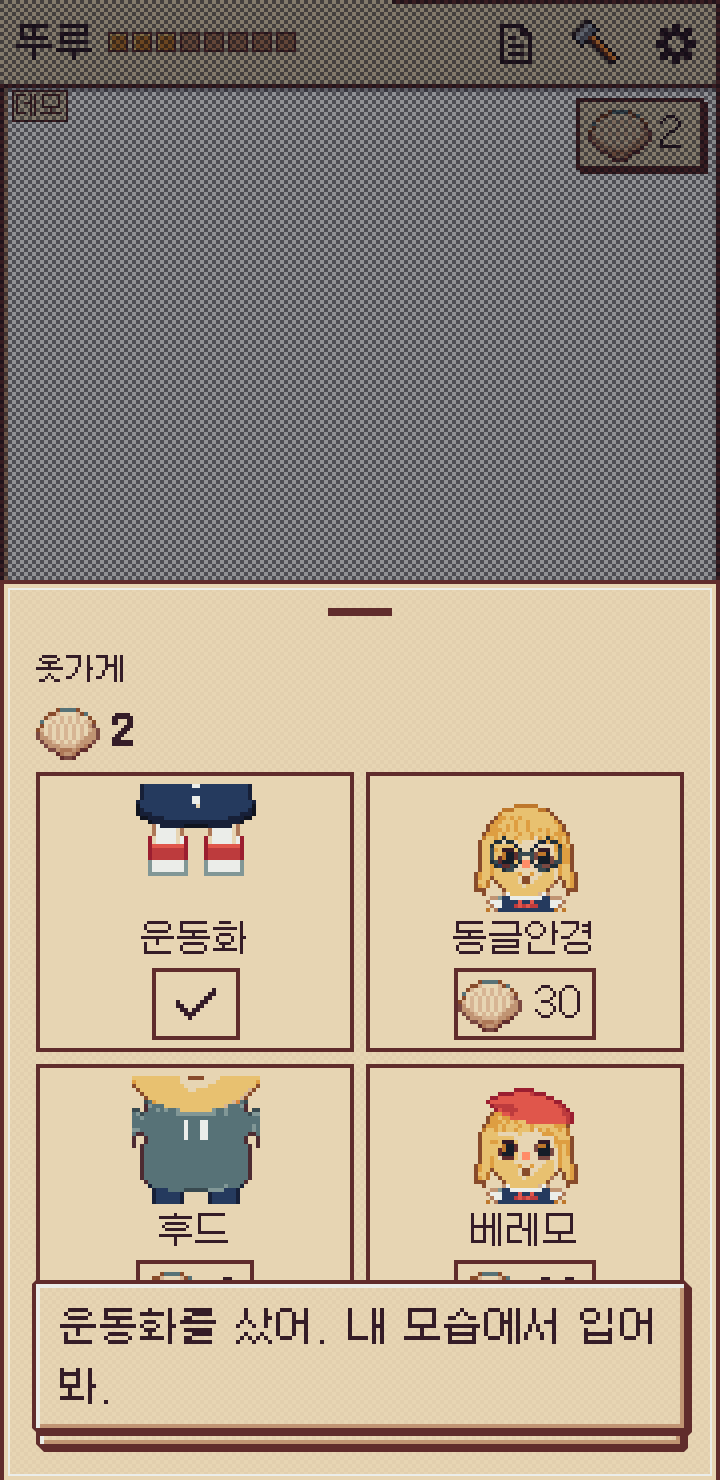
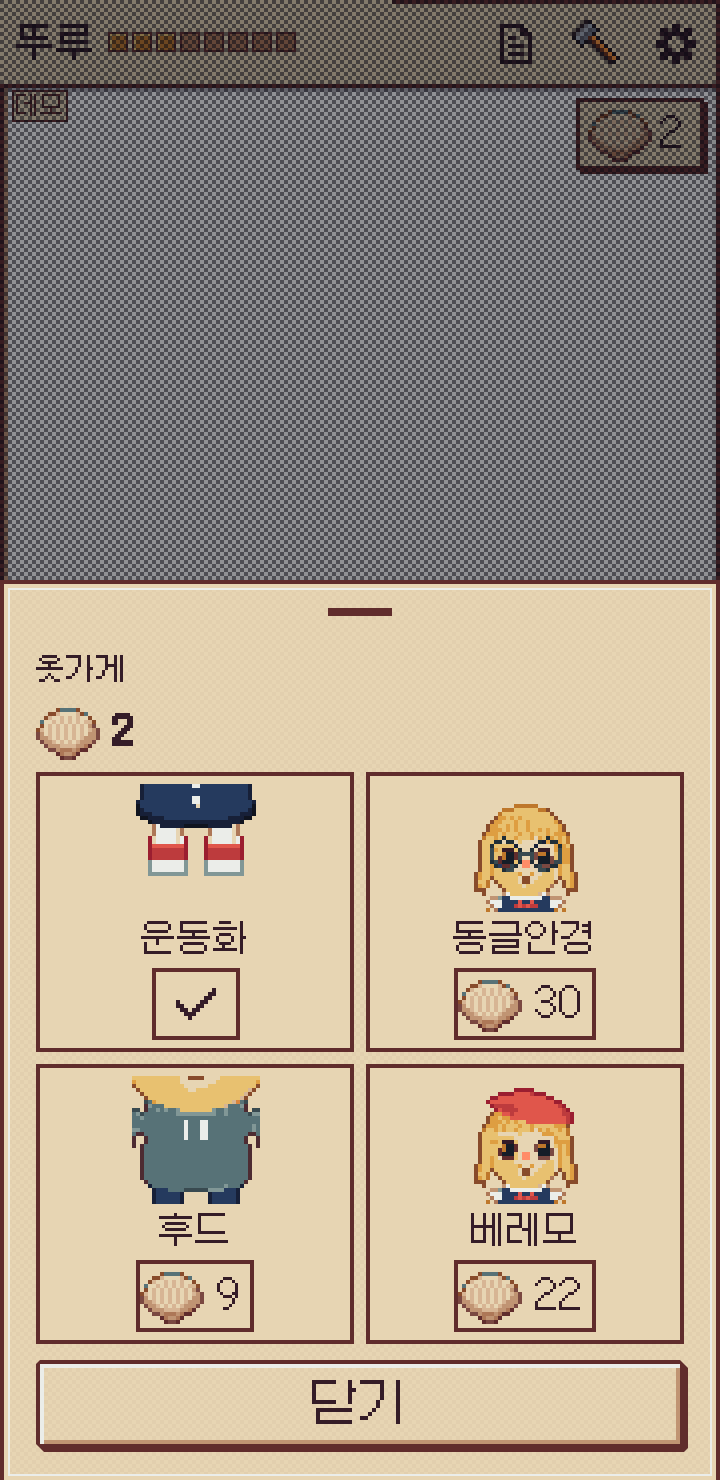
가게: 독립 점검에서 나온 것 고침 (두 번 톡에 시트 닫힘 · 옷장이 안 받을 때 결제 · 불러오기 뒤 다시 얹기 · 2.625 배율 그림)
Claude-Session: https://claude.ai/code/session_01Tq2y4UyHAQAeqPneYKgSFN

Changed region(s): [[0.0306, 0.8392, 0.9778, 0.9946]]

diff --git a/js/app.js b/js/app.js
@@ -5510,8 +5510,8 @@ var APP = (function () {
     var w = shopCat(); return SHOP.stock('clothes', dk, w, shopOwned(u, w));
   }
   function shopMineAdd(m) { m.at = Date.now(); m.born = S.octopus.born || 0; shopMine.push(m); }
-  function shopSync() {   /* 다른 탭의 저장을 받은 뒤 · 시트를 열 때: 내 것 다시 얹기 + 영수증대로 옷장 고치기 */
-    if (!window.SHOP) return; var u = shopU(), now = Date.now(), born = S.octopus.born || 0, dk = todayKey(), mine = { shop: { got: {} }, beach: { day: dk, picked: [] } };
+  function shopSync(remote) {   /* remote = 다른 탭의 저장을 받은 뒤: 내 것 다시 얹기 (불러오기 · 초기화 뒤에는 얹지 않는다 — 시트를 열 때는 영수증대로 옷장 고치기만) */
+    if (!window.SHOP) return; if (!remote) shopMine = []; var u = shopU(), now = Date.now(), born = S.octopus.born || 0, dk = todayKey(), mine = { shop: { got: {} }, beach: { day: dk, picked: [] } };
     shopMine = shopMine.filter(function (m) { return now - m.at < 60000 && m.born === born; });
     shopMine.forEach(function (m) {
       if (m.t === 'got') mine.shop.got[m.key] = m.day;
@@ -5530,23 +5530,24 @@ var APP = (function () {
   function shopShort(miss, el) {   /* 재봉틀과 같은 모자람 알림: 값 그림이 흔들리고 모자란 수 */
     furnShake(el); toast([h('span', { 'aria-hidden': 'true' }, [shellAmt(miss), ' 모자라']), h('span', { class: 'sr-only', text: '조개가 ' + miss + '개 모자라. 다락방 달리기나 들어온 날 선물로 생겨' })]);
   }
+  function shopSnap(el, art, want) { var dpr = window.devicePixelRatio || 1, k = Math.max(1, Math.floor(want * dpr / art + 1e-6)); el.style.width = (art * k / dpr) + 'px'; el.style.height = ((el.height || art) * k / dpr) + 'px'; return el; }   /* 그림 한 점 = 기기 px 의 정수배 (2.625 배율에서 64px 는 5.25 배라 번진다 → 5 배) */
   function shopThumb(it, px) {   /* 옷 그림: 캐릭터 갈래의 itemThumb (캔버스 | 그림 주소) → 없으면 그 옷만 바꿔 입은 내 얼굴 샷 → 그것도 없으면 그림 없이 */
     var A = window.APP, t = null, box = h('span', { class: 'shop-pic', 'aria-hidden': 'true' });
     try { t = A && typeof A.itemThumb === 'function' ? A.itemThumb(it.cat, it.id, px) : null; } catch (e) { console.warn('[app] itemThumb', e); }
     if (typeof t === 'string' && t) t = h('img', { src: t, alt: '', width: String(px), height: String(px), draggable: 'false' });
     else if (!(t && t.nodeType === 1) && lookCanShot()) { try { var look = {}; look[it.cat] = it.id; var src = scene.playerShot({ look: look, frame: it.cat === 'shoes' ? 'feet' : /^(hair|acc|eyes|face)/.test(it.cat) ? 'head' : 'body', shared: true }); if (src) { t = h('canvas', { width: String(src.width), height: String(src.height) }); t.getContext('2d').drawImage(src, 0, 0); } } catch (e2) { console.warn('[app] playerShot', e2); t = null; } }
-    if (t && t.nodeType === 1) { t.classList.add('shop-thumb'); box.appendChild(t); }
+    if (t && t.nodeType === 1) { t.classList.add('shop-thumb'); if (t.width > 0 && t.width === t.height) shopSnap(t, 32, px); box.appendChild(t); }
     return box;
   }
   var SHOP_SEED = ['................', '...oooooooooo...', '...occcccccco...', '...oooooooooo...', '...occcccccco...', '...ocggccggco...', '...occggggcco...', '...occcggccco...', '...occcggccco...', '...occbbbbcco...', '...occcccccco...', '...oooooooooo...', '................', '.....b....b.....', '........b.......', '................'];
   function shopSeedPic() {   /* 씨앗 봉투 (16×16 을 조개 그림처럼 32px 로 — 그림 파일을 새로 두지 않고 여기서 찍는다) */
     var cv = h('canvas', { class: 'shop-seed', width: '16', height: '16' }), cx = cv.getContext('2d'), col = { o: '#5a3422', c: '#f3e3c0', g: '#4fa868', b: '#7a4a30' };
     SHOP_SEED.forEach(function (row, y) { for (var x = 0; x < 16; x++) if (col[row[x]]) { cx.fillStyle = col[row[x]]; cx.fillRect(x, y, 1, 1); } });
-    return cv;
+    return shopSnap(cv, 16, 48);
   }
   function shopTry(it) {   /* 입어 보기: 지금 내 모습에서 그 옷 하나만 바꾼 전신 (장면이 그린다 — 저장도 실제 모습도 안 바뀐다) */
     if (!lookCanShot()) return null;
-    try { var look = {}; look[it.cat] = it.id; var src = scene.playerShot({ look: look, frame: 'full', shared: true }); if (!src) return null; var cv = h('canvas', { class: 'look-stage-cv shop-try', width: String(src.width), height: String(src.height), role: 'img', 'aria-label': it.name + ' 입어 본 내 모습' }); cv.getContext('2d').drawImage(src, 0, 0); return cv; }
+    try { var look = {}; look[it.cat] = it.id; var src = scene.playerShot({ look: look, frame: 'full', shared: true }); if (!src) return null; var cv = h('canvas', { class: 'look-stage-cv shop-try', width: String(src.width), height: String(src.height), role: 'img', 'aria-label': it.name + ' 입어 본 내 모습' }); cv.getContext('2d').drawImage(src, 0, 0); return shopSnap(cv, src.width, 128); }
     catch (e) { console.warn('[app] playerShot', e); return null; }
   }
   function shopFind(kind, key) { var f = null; shopStock(kind).items.forEach(function (x) { if (x.key === key) f = x; }); return f; }
@@ -5561,7 +5562,7 @@ var APP = (function () {
     if (!r.ok && r.why === 'short') { shopShort(it.price - u.shells, document.querySelector('#shop-body .shop-ask .shell-amt')); return; }   /* 묻는 줄은 그대로 둔다 */
     shopAsk = null;
     if (!r.ok) { renderShop(); return; }
-    if (r.own) { var A = shopApi(); try { if (!A) throw new Error('옷장 없음'); A.ownItem(it.cat, it.id); } catch (e) { console.warn('[app] ownItem', e); renderShop(); return; } u = shopU(); }   /* 옷장에 못 넣으면 조개도 안 나간다 */
+    if (r.own) { var A = shopApi(); try { if (!A) throw new Error('옷장 없음'); if (A.ownItem(it.cat, it.id) === false) throw new Error('옷장이 받지 않음'); } catch (e) { console.warn('[app] ownItem', e); renderShop(); return; } u = shopU(); }   /* 옷장에 못 넣으면 조개도 안 나간다 */
     u.shells = r.state.shells; u.seeds = r.state.seeds; u.dyes = r.state.dyes; u.shop = r.state.shop;
     shopMineAdd(r.own ? { t: 'got', key: r.own, day: dk } : it.type === 'seed' ? { t: 'seed', day: dk, n: u.shop.day ? u.shop.day.seeds : 1 } : { t: 'dye' });
     save(); renderShop(); renderBagChip(); shopSay('shop.thanks');
@@ -5582,6 +5583,7 @@ var APP = (function () {
     frag.appendChild(h('p', { class: 'bag-line' }, [shellAmt(u.shells), goods ? h('span', { text: ' · 씨앗 ' + u.seeds }) : null]));
     var ask = shopAsk && shopAsk.kind === shopKind ? shopAsk : (shopAsk = null), it = ask ? shopFind(shopKind, ask.key) : null;
     if (ask && !it) ask = shopAsk = null;
+    if (!ask) body.style.minHeight = ''; else if (!body.style.minHeight && body.querySelector('.shop-grid')) body.style.minHeight = body.offsetHeight + 'px';   /* 묻는 동안 시트가 줄지 않게 (선반 높이 그대로) */
     if (ask) {   /* 확인 줄 — 선반 자리에 (묻는 동안 선반은 없다: 두 번 톡이 '살래' 로 들어가지 않게) */
       var wear = ask.act === 'wear', cv = goods ? null : shopTry(it), line, sw = null;
       if (wear) line = [h('span', { text: it.name + eulReul(it.name) + ' 입을까?' })];
@@ -5646,12 +5648,12 @@ var APP = (function () {
   function shopInit() {
     var sh = $('shop-sheet'); if (!sh) return;
     $('shop-close').addEventListener('click', function () { sh.close(); });
-    sh.addEventListener('click', function (e) { if (clickedOutside(e.currentTarget, e)) e.currentTarget.close(); });
+    sh.addEventListener('click', function (e) { if (clickedOutside(e.currentTarget, e) && !(shopAsk && tapTime(e) - shopAskAt < SHEET_SETTLE)) e.currentTarget.close(); });   /* 칸을 두 번 톡했을 때 둘째가 (줄어든 시트의) 바깥에 떨어져 닫히지 않게 */
     sh.addEventListener('close', function () { shopAsk = null; });
     [['btn-shop-clothes', 'clothes'], ['btn-shop-goods', 'goods']].forEach(function (p) { var b = $(p[0]); if (b) b.addEventListener('click', function () { openShop(p[1]); }); });
     for (var i = 0; i < 5; i++) (function (n) { var b = $('btn-beach-shell-' + n); if (b) b.addEventListener('click', function () { beachTap(n); }); })(i);
     shopDay = todayKey();
-    window.addEventListener('storage', function (e) { if (e.key !== KEY) return; setTimeout(shopSync, 0); setTimeout(shopSync, 800); });   /* 앱이 다른 탭의 저장을 받아들인 뒤에 */
+    window.addEventListener('storage', function (e) { if (e.key !== KEY) return; setTimeout(function () { shopSync(true); }, 0); setTimeout(function () { shopSync(true); }, 800); });   /* 앱이 다른 탭의 저장을 받아들인 뒤에 */
     setInterval(function () { if (!document.hidden) shopTick(); }, 30000);
     document.addEventListener('visibilitychange', function () { if (!document.hidden) setTimeout(shopTick, 500); });
     beachSync(true); setTimeout(function () { beachSync(true); }, 1500); setTimeout(function () { beachSync(true); }, 5000);   /* 바깥이 늦게 지어져도 */

diff --git a/tools/test-shop-live.js b/tools/test-shop-live.js
@@ -57,6 +57,12 @@ async function goodsRun(browser) {
   await tile(page, dye);
   ok(!(await page.$('#shop-body .shop-ask')) && (await U(page)).shells === 0 && /모자라/.test(await page.textContent('#toast')), '조개가 없으면 묻지 않고 모자란 수만');
   await setShells(page, 20);
+  /* 윗줄 칸을 두 번 톡: 둘째가 줄어든 시트의 바깥에 떨어져 닫히면 안 된다 */
+  const sb = await page.evaluate(() => { const r = document.querySelector('#shop-body .shop-tile').getBoundingClientRect(); return { x: r.left + r.width / 2, y: r.top + 20 }; });
+  await page.mouse.click(sb.x, sb.y); await page.mouse.click(sb.x, sb.y);
+  ok(await page.evaluate(() => document.getElementById('shop-sheet').open) && !!(await page.$('#shop-body .shop-ask')) && (await U(page)).shells === 20, '칸을 두 번 톡해도 시트가 닫히지 않는다');
+  ok(await page.evaluate(p => { const r = document.getElementById('shop-sheet').getBoundingClientRect(); return p.y >= r.top; }, sb), '묻는 동안 시트 높이가 줄지 않는다');
+  await page.waitForTimeout(700); await page.click('#shop-body .sew-no');
   await shot(page, 'goods-360');
   await dbl(page, 'seed');
   ok(!!(await page.$('#shop-body .shop-ask')) && !(await page.$('#shop-body .shop-grid')) && (await U(page)).shells === 20, '누르면 먼저 묻는다 (아직 안 나간다)');
@@ -108,6 +114,13 @@ async function clothesRun(browser) {
   let u = await U(page);
   ok(u.shells === 3 && !(u.owned || {})[dear.key] && !u.shop.got[dear.key] && !!(await page.$('#shop-body .shop-ask')) && /모자라/.test(await page.textContent('#toast')), '모자라면 안 사진다 (물음은 그대로)');
   await page.click('#shop-body .sew-no');
+  /* 옷장이 받지 않으면 (false) 조개도 안 나간다 */
+  await page.evaluate(() => { window.__own = APP.ownItem; APP.ownItem = () => false; });
+  await setShells(page, cheap.price + 2);
+  await tile(page, cheap.key); await yes(page);
+  u = await U(page);
+  ok(u.shells === cheap.price + 2 && !u.shop.got[cheap.key] && !(u.owned || {})[cheap.key], '옷장이 받지 않으면 조개도 안 나간다');
+  await page.evaluate(() => { APP.ownItem = window.__own; });
   await setShells(page, cheap.price + 2);
   await dbl(page, cheap.key);
   ok((await U(page)).shells === cheap.price + 2, '0.6 s 안의 살래는 안 받는다');
@@ -122,7 +135,7 @@ async function clothesRun(browser) {
   ok((await page.textContent('#shop-body .sew-yes')) === '입을래', '가진 옷은 입을지 묻는다');
   await yes(page);
   ok(await page.evaluate(k => { const p = k.split(':'); return APP.state.settings.player[p[0]] === p[1]; }, cheap.key) && (await U(page)).shells === 2, '입을래 → 입는다 (조개는 그대로)');
-  ok(await page.evaluate(() => window.__said.join()) === 'clothes|shop.hello,clothes|shop.hello,clothes|shop.thanks', '가게 주인 줄: 열 때 인사 · 산 뒤 한 번 (입기 · 모자람 · 그만에는 없다)');
+  ok(await page.evaluate(() => window.__said.join()) === 'clothes|shop.hello,clothes|shop.hello,clothes|shop.hello,clothes|shop.thanks', '가게 주인 줄: 열 때 인사 · 산 뒤 한 번 (입기 · 모자람 · 그만에는 없다)');
   await page.click('#shop-close');
   /* 새로고침 → 대역을 다시 끼워도 산 것은 그대로 */
   await page.reload(); await page.waitForFunction(() => window.APP && APP.openShop, null, { timeout: 30000 }); await page.waitForTimeout(800);
@@ -177,6 +190,12 @@ async function tabsRun(browser) {
   const saved = JSON.parse(await A.evaluate(() => localStorage.getItem('ppolppol_v2')));
   ok(saved.user.shop.got[it.key] === DAY && saved.user.owned[it.key] === DAY, '저장에도 다시 적힌다');
   ok(await A.evaluate(k => !!document.querySelector('#shop-body .shop-tile[data-key="' + k + '"] .sew-cost.own'), it.key), '열린 선반의 표시도 그대로');
+  /* 불러오기 (같은 탭) 뒤에 가게를 열어도 방금 산 것을 다시 얹지 않는다 */
+  await A.evaluate(raw => { const o = JSON.parse(raw); o.user.seeds = 3; APP.importJSON(JSON.stringify(o)); }, stale);
+  await A.evaluate(() => APP.openShop('clothes'));
+  const im = await U(A);
+  ok(im.seeds === 3 && !(im.owned || {})[it.key] && !((im.shop || {}).got || {})[it.key], '불러온 기록에는 얹지 않는다');
+  await A.evaluate(() => document.getElementById('shop-sheet').close());
   /* 다른 문어의 기록 (초기화 뒤 새로 시작한 탭) 이면 얹지 않는다 */
   await A.evaluate(raw => { const o = JSON.parse(raw); o.octopus.born = '2026-11-20T00:00:00.000Z'; delete o.user.owned; delete o.user.shop; const v = JSON.stringify(o); localStorage.setItem('ppolppol_v2', v); window.dispatchEvent(new StorageEvent('storage', { key: 'ppolppol_v2', newValue: v, storageArea: localStorage })); }, stale);
   await A.waitForTimeout(1300);

diff --git a/css/style.css b/css/style.css
@@ -1794,7 +1794,7 @@ html.intro-on .meal-call { opacity: 0; visibility: hidden; }
 
 
 /* [7-S] 가게 (옷가게 · 잡화점 · 바닷가 조개) */
-/* 11-21: 재봉틀 시트의 칸 · 확인 줄 · 값 표를 그대로 쓰고 (sew-*), 선반만 두 칸씩 · 칸마다 그림 64px (옷 그림은 기기 px 에 맞춘 정수배 — pixelated) */
+/* 11-21: 재봉틀 시트의 칸 · 확인 줄 · 값 표를 그대로 쓰고 (sew-*), 선반만 두 칸씩 · 칸마다 그림 자리 64px (그림 크기는 앱이 기기 px 의 정수배로 맞춘다 — shopSnap) */
 .shop-sheet .shop-grid { grid-template-columns: repeat(2, minmax(0, 1fr)); }
 .shop-sheet .shop-tile { align-items: center; gap: 4px; padding: 6px 4px; }
 .shop-pic { display: flex; align-items: center; justify-content: center; width: 64px; height: 64px; }
@@ -1805,7 +1805,8 @@ html.intro-on .meal-call { opacity: 0; visibility: hidden; }
 .shop-sheet .shop-tile .sew-name { word-break: keep-all; overflow-wrap: anywhere; }
 .shop-sheet .shop-tile .sew-cost { align-self: center; justify-content: center; min-width: 44px; }
 .shop-ask { display: flex; flex-direction: column; align-items: stretch; }
-.shop-ask .shop-try { align-self: center; margin: 0 0 8px; }
+.shop-ask .shop-try { align-self: center; margin: 0 0 8px; box-sizing: content-box; }
+.shop-ask { justify-content: center; }
 :root[data-font="pixel"] .shop-ask .shop-try { border: 0; border-radius: 0; box-shadow: inset 0 0 0 2px var(--line); }
 
 

diff --git a/tools/test-shop.js b/tools/test-shop.js
@@ -88,6 +88,7 @@ console.log('== 사기');
   var r2 = SHOP.buy(r.state, 'clothes', it, DAY);
   ok(!r2.ok && r2.why === 'owned' && r2.state.shells === 5, '두 번 사도 한 번만 나간다');
   ok(SHOP.buy({ shells: 99, owned: (function () { var o = {}; o[it.key] = DAY; return o; })() }, 'clothes', it, DAY).why === 'owned', '옷장에 있으면 안 산다');
+  ok(SHOP.buy({ shells: 99, owned: {}, shop: { got: (function () { var o = {}; o[it.key] = true; return o; })() } }, 'clothes', it, DAY).ok, '영수증만 있고 옷장에 없으면 다시 살 수 있다 (막힌 칸이 안 생긴다)');
   var r3 = SHOP.buy({ shells: it.price - 1 }, 'clothes', it, DAY);
   ok(!r3.ok && r3.why === 'short' && r3.state.shells === it.price - 1, '모자라면 안 산다');
   ok(SHOP.buy({ shells: 99 }, 'clothes', { key: 'a:b', price: 0 }, DAY).why === 'bad', '값 0 은 안 받는다');

diff --git a/js/shop.js b/js/shop.js
@@ -85,7 +85,7 @@ var SHOP = (function () {
     var price = isObj(item) && typeof item.price === 'number' && isFinite(item.price) ? Math.floor(item.price) : 0;
     if (!isObj(item) || typeof item.key !== 'string' || price < 1 || !isKey(dateKey)) return no('bad');
     if (kind === 'clothes') {
-      if (st.shop.got[item.key] || (isObj(state.owned) && state.owned[item.key])) return no('owned');
+      if (isObj(state.owned) ? state.owned[item.key] : st.shop.got[item.key]) return no('owned');   /* 가졌는지는 옷장 (owned) 이 정한다. 옷장을 안 넘겼을 때만 영수증으로 */
       if (st.shells < price) return no('short');
       st.shells -= price; st.shop.got[item.key] = dateKey;
       return { ok: true, state: st, why: null, own: item.key };

diff --git a/wip/round7/reports/S.md b/wip/round7/reports/S.md
@@ -3,7 +3,8 @@
 ## 결론
 
 다 됐다. 옷가게 (하루 네 개 · 입어 보기 · 확인 한 번) 와 잡화점 (씨앗 · 그날의 염료 색 셋), 바닷가 조개 줍기가 `APP.openShop(kind)` · `APP.beachPick(i)` 로 돌고, 마을 단추 · 조개 단추가 합쳐지면 저절로 묶인다.
-기존 줄은 **하나도 고치지 않았다** (표시 줄 아래에만 썼다). `npm test` 통과, 새 시험 둘 (90 · 63) 통과. 버린 것 없음.
+기존 줄은 **하나도 고치지 않았다** (표시 줄 아래에만 썼다). `npm test` 통과, 새 시험 둘 (91 · 65) 통과. 버린 것 없음.
+못 한 것 하나: 리드가 부탁한 `.github/workflows/test.yml` 의 lane 제외 한 줄은 이 세션의 권한 검사에서 막혀 넣지 못했다 (리드에게 알림).
 
 ## 바뀐 것
 
@@ -42,9 +43,9 @@
 2. 가진 옷 칸을 누르면 입어 본 그림 + `입을래` (바로 입는다).
 3. 잡화점: 씨앗 2 조개 · 하루 3개, 염료는 그날 색 셋 · 6 조개 · 수 제한 없음 (재봉틀에서는 여전히 여섯 색을 다 살 수 있다 — 가게는 들르는 김에 사는 곳).
 4. 다 산 씨앗 칸의 글은 `내일` (텃밭의 '내일' 과 같은 말. 시계 · 남은 수는 없다).
-5. 가게 주인의 `shop.thanks` 줄은 **시트가 닫힌 뒤** 부른다 (시트 위에서는 대화 상자가 가려진다). `shop.hello` · `shop.none` 은 부르지 않는다.
+5. 가게 주인 줄 (리드 답): 시트가 열린 채로 `shop.hello` (열 때마다) · `shop.thanks` (산 직후마다) · `shop.none` (빈 선반). 열 때마다 인사가 번거로우면 하루 한 번으로 줄일 자리는 `openShop` 마지막 줄.
 6. 옷장 API 가 없으면 (캐릭터 갈래가 안 합쳐졌으면) 옷가게 시트는 열리지 않는다. 옷 목록은 있는데 살 것이 없으면 '옷은 아직 없어.' 한 줄.
-7. 바닷가 조개는 하루 셋 (+3). 줍기는 범용 벌이 도우미가 없어 (`earnFromPlay` 는 한 판 2~8) 재봉틀 사기와 같은 식으로 `userState()` 의 수를 바꾸고 `save()` · `renderBagChip()` 한다.
+7. 바닷가 조개는 하루 셋 (+3). 멀리서 누르면 먼저 걸어간다 (바깥 갈래의 `beachShellNear` · `beachShellGo` 가 있을 때). 줍기는 범용 벌이 도우미가 없어 (`earnFromPlay` 는 한 판 2~8) 재봉틀 사기와 같은 식으로 `userState()` 의 수를 바꾸고 `save()` · `renderBagChip()` 한다.
 8. 시트 제목은 '옷가게' · '잡화점' (NPC 갈래가 가게 이름을 지으면 바꿀 자리: `renderShop` 첫 줄).
 9. 선반 그림: `APP.itemThumb` 가 없을 때는 그 옷만 바꿔 입은 내 캐릭터 샷 (신발 = 발, 옷 = 몸, 그 밖 = 얼굴).
 
@@ -57,8 +58,8 @@
 
 ## 시험
 
-- 새로: `tools/test-shop.js` (90 — 같은 날 같은 선반 · 한 바퀴에 전부 · 싼 것과 비싼 것 · 가진 것 바뀜 · 오늘 산 것 남음 · 값과 조개 · 두 번 사기 · 씨앗 하루 셋 · 합치기 · 모르는 값 · 조개 자리),
-  `tools/test-shop-live.js` (63 — 두 시트 · 0.6 s 규칙 · 포커스 · 모자람 · 입어 보기는 아무것도 안 바꿈 · 사기 · 표시 · 입을래 · 가게 주인 줄 · 새로고침 · 날 바뀜 · 조개 줍기 · 다른 탭의 늦은 저장 · 다른 문어 · 320 / 360 / 1280 칸 맞춤).
+- 새로: `tools/test-shop.js` (91 — 같은 날 같은 선반 · 한 바퀴에 전부 · 싼 것과 비싼 것 · 가진 것 바뀜 · 오늘 산 것 남음 · 값과 조개 · 두 번 사기 · 씨앗 하루 셋 · 합치기 · 모르는 값 · 조개 자리),
+  `tools/test-shop-live.js` (65 — 두 시트 · 0.6 s 규칙 · 포커스 · 모자람 · 입어 보기는 아무것도 안 바꿈 · 사기 · 표시 · 입을래 · 가게 주인 줄 · 새로고침 · 날 바뀜 · 조개 줍기 · 다른 탭의 늦은 저장 · 다른 문어 · 320 / 360 / 1280 칸 맞춤).
 - 돌린 것: `npm test` 전부 통과 (정직 낱말 573 · 내보내기 47 포함). 느린 묶음 (`smoke` 등) 은 안 돌렸다 (기존 줄을 안 고쳤다).
 - **리드에게**: `npm test` 에 `node tools/test-shop.js`, `test:slow` · CI 에 `node tools/test-shop-live.js` (약 105 s) 를 넣어 달라. `tools/smoke.js` 의 `[7-S]` 자리는 비워 뒀다 (따로 파일로 돈다).
 
@@ -76,6 +77,24 @@
 
 ## 안 본 것
 
-- 412x915 @2.625 의 진짜 배율 화면 (독립 점검에서 봤으면 아래에 적는다). 선반 그림은 옷장 시트의 타일과 같은 크기 규칙 (32px 그림 → 64px), 씨앗 봉투는 16px 그림 → 48px.
+- 412x915 @2.625 는 독립 점검이 진짜 배율로 봤다 (아래). 고친 뒤의 그림 크기는 계산으로만 맞췄고 그 배율에서 다시 찍어 보지는 않았다. 그림의 **자리** (가운데 맞춤) 는 기기 px 에 맞추지 않았다.
 - 느린 묶음 전체, 실제 기기.
 - 두 진짜 탭 (헤드리스 `file://` 에서 두 쪽의 저장소 스냅숏이 갈리는 일이 있어 storage 이벤트를 만들어 넣어 시험했다).
+
+## 독립 점검 (한 번) 과 고친 것
+
+`must` 없음. `should` 여섯 중 넷을 고쳤다:
+1. 잡화점 윗줄 칸을 두 번 톡하면 시트가 줄어들며 둘째 톡이 바깥에 떨어져 닫혔다 → 묻는 동안 시트 높이 유지 + 바깥 누름도 0.6 s 쉼.
+2. `APP.ownItem` 이 `false` 를 돌려줘도 조개가 나갔다 → `false` 도 실패로. 기록만 있고 옷장에 없는 옷이 '살래' 가 안 먹는 칸이 되던 것도 고침 (가짐은 옷장만 본다).
+3. 불러오기 뒤 60 s 안에 가게를 열면 방금 산 옷이 조개 없이 다시 생겼다 → 다시 얹기는 다른 탭의 저장을 받은 때에만.
+4. 2.625 배율에서 그림이 5.25 배 · 7.875 배로 번졌다 → 크기를 기기 px 의 정수배로 (`shopSnap`).
+
+안 고친 둘 (까닭):
+5. 옷가게 시트 뒤의 3D 장면이 소프트웨어 GL 에서 회색으로 보였다는 보고 — 내 잡화점 화면 (playerShot 을 안 부른다) 도 같은 회색이라 가게 탓인지 가리지 못했다. **실제 기기에서 확인 필요** (옷장 시트와 같은 `playerShot({ shared: true })` 호출이다).
+6. `itemThumb` 이 없을 때의 대신 그림은 내 캐릭터의 한 부분이다 — 캐릭터 갈래가 합쳐지면 그 갈래의 옷 그림으로 바뀐다.
+
+알아 둘 길: 다른 탭의 **늦은 저장**이 조개 수를 사기 전으로 되돌리면 (지금까지의 두 탭 규칙) 산 옷은 남는다 → 드물게 조개 없이 옷이 남을 수 있다 (옷을 잃는 쪽보다 낫다고 봤다).
+
+## 스모크 전체 (리드 부탁 — 글자별 한 번)
+
+(아래에 결과)

diff --git a/docs/SHOP.md b/docs/SHOP.md
@@ -21,6 +21,8 @@
 - 같은 날 · 같은 목록이면 어느 기기에서나 같은 선반.
 - 칸을 누르면 **내 캐릭터에 입혀 본 그림** (장면 `playerShot` — 저장도 실제 모습도 안 바뀐다) 과 `그만` / `살래`. 조개가 모자라도 입어 볼 수 있고, `살래` 에서 값이 흔들리며 모자란 수를 알린다.
 - 가진 옷 칸을 누르면 `그만` / `입을래`.
+- 묻는 동안 시트 높이는 선반 높이 그대로고, 뜬 뒤 0.6 s 안의 누름은 `살래` · `그만` · 시트 바깥 모두 받지 않는다 (같은 자리 두 번 톡).
+- 그림 (옷 · 씨앗 봉투 · 입어 보기) 은 한 점이 기기 px 의 정수배가 되게 크기를 맞춘다 (`shopSnap` — 2.625 배율에서 64px 자리의 32px 그림은 5배).
 - 값은 옷장 목록 (캐릭터 갈래) 에서 온다. 여기에는 옷 값 표가 없다.
 
 ## 잡화점
@@ -43,9 +45,9 @@ shop  = { got: { '갈래:id': 'YYYY-MM-DD' (산 날) }, day: { key, seeds } | nu
 beach = { day: 'YYYY-MM-DD' | null, picked: [자리] }
 ```
 
-- 옷의 가짐 자체는 캐릭터 갈래의 `user.owned` (`APP.ownItem`). `shop.got` 은 **영수증**: 다른 탭의 늦은 저장이 옷장을 덮어도 영수증에 있는 옷은 다시 넣는다 (`shopSync`).
-- 사기는 `SHOP.buy` 가 값 · 가진 조개 · 가짐을 다시 보고, 옷장에 넣기가 실패하면 조개도 안 나간다.
-- 두 탭: 이 탭이 60 s 안에 산 것 · 주운 것은 다른 탭의 저장을 받은 뒤 다시 얹는다 (`SHOP.merge` — 산 것 합집합 · 같은 날 씨앗 수는 큰 쪽 · 주운 자리 합집합). 조개 수는 지금까지의 두 탭 규칙 그대로 (장부 없음).
+- 옷을 가졌는지는 캐릭터 갈래의 `user.owned` (`APP.ownItem` · `APP.wardrobe()` 의 `owned`) **하나만** 본다. `shop.got` 은 '언제 샀나' 기록이다: 다른 탭의 늦은 저장이 옷장을 덮었으면 기록에 있는 옷을 `APP.ownItem` 으로 다시 넣는다 (`shopSync`).
+- 사기는 `SHOP.buy` 가 값 · 가진 조개 · 가짐을 다시 보고, 옷장에 넣기가 실패하면 (`ownItem` 이 던지거나 `false`) 조개도 안 나간다.
+- 두 탭: 이 탭이 60 s 안에 산 것 · 주운 것은 **다른 탭의 저장을 받은 때에만** 다시 얹는다 (불러오기 · 초기화 뒤에는 얹지 않는다) (`SHOP.merge` — 산 것 합집합 · 같은 날 씨앗 수는 큰 쪽 · 주운 자리 합집합). 조개 수는 지금까지의 두 탭 규칙 그대로 (장부 없음).
 
 ## 다른 갈래와 만나는 곳
 
@@ -54,7 +56,8 @@ beach = { day: 'YYYY-MM-DD' | null, picked: [자리] }
 | `#btn-shop-clothes` · `#btn-shop-goods` (건물) | `APP.openShop('clothes' | 'goods')` 로만 열린다 |
 | `APP.wardrobe` · `ownItem` · `itemThumb` (캐릭터) | 옷가게는 열리지 않는다. `itemThumb` 만 없으면 그 옷만 바꿔 입은 내 캐릭터 샷 |
 | `scene.beachShells` · `#btn-beach-shell-N` (바깥) | 조개 줍기는 `APP.beachPick(i)` 로만 |
-| `APP.npcSay(kind, 'shop.thanks')` (NPC) | 아무 말도 없다. 있으면 **시트가 닫힌 뒤** 한 번 (시트 위에서는 대화 상자가 가려진다) |
+| `APP.npcSay(kind, key)` (NPC) | 아무 말도 없다. 있으면 시트 위에: 열 때 `shop.hello` (선반이 비었으면 `shop.none`) · 산 직후 `shop.thanks` |
+| `scene.beachShellNear(i)` · `beachShellGo(i)` (바깥) | 조개 단추를 누르면 바로 줍는다. 있으면 멀 때 먼저 걸어가고 닿으면 줍는다 |
 
 ## 일주일 보기 (옷 열두 개짜리 보기 목록 — 실제 옷 · 값은 옷장 목록을 따른다)
 
